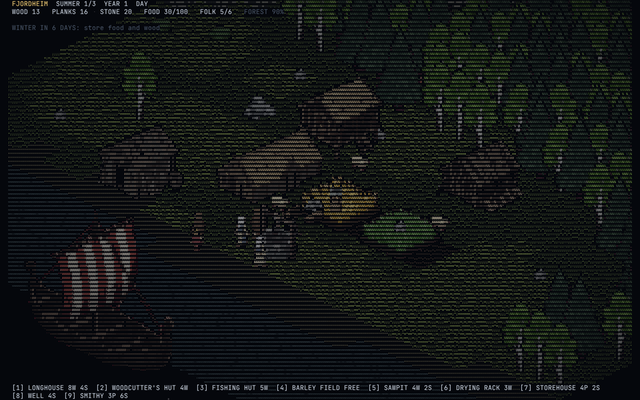
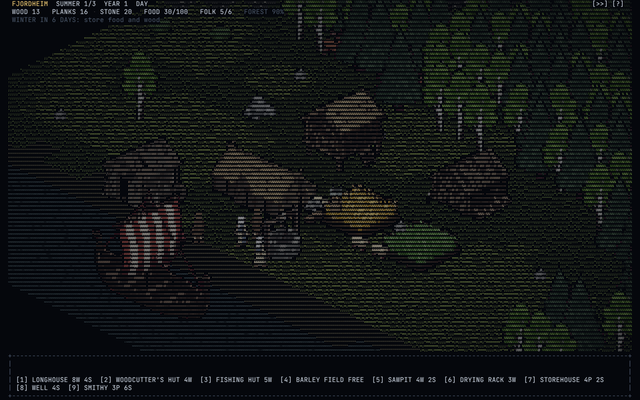
Fjordheim: buildings stand on their footprints the right way round; the knarr sails along the fjord (#20)
The owner: "Both the ship and the house orients strange." The longhouse's drawing has its long side
running down-left, against its 3 x 2 footprint, and buildings and fields were pinned by their
middle, so they floated above or beside their footprints. The knarr's hull lay along one diagonal
while it sailed almost straight up the screen.

- Buildings, building sites and fields stand with the drawing's lowest point (its base's front
  corner) on the footprint's front corner, mirrored when the long side runs the other way (onFoot).
- The knarr sails along the fjord, parallel to the shore, the way its mirrored drawing lies: in
  from the right, moored three tiles off the landing, out to the left. A little smaller.
- New thumbnail; NOTES, HISTORY 26, LESSONS and the art-prompt skill's log.

Claude-Session: https://claude.ai/code/session_01Yc4vejSbeAYSEV73mfr3yu

diff --git a/games/fjordheim/art.js b/games/fjordheim/art.js
@@ -1,10 +1,11 @@
 'use strict';
 // ===================== GAME · sprites: sizes, origins and animations =====================
 // FJ_ART (sprites.js, made by tools/art.py from the owner's sheets) holds every drawing; here each becomes an engine sprite
-// with its size in the world. Buildings are sized by their footprint: the drawing's width becomes the footprint diamond's
-// width ((a + b) tiles × TILE / 2), its bottom on the footprint's front corner. People, animals and trees are sized by
-// height and stand on their feet (the drawing's foot row). Walking characters have frames facing the viewer ("se") and
-// facing away ("ne"); the engine's flip gives the two other directions.
+// with its size in the world. Buildings and fields are sized by their footprint (the drawing's width becomes the footprint
+// diamond's width, (a + b) tiles × TILE / 2) and stand with the lowest point of the drawing, its base's front corner, on the
+// footprint's front corner; a drawing whose long side runs the other way from the footprint's is mirrored. People, animals
+// and trees are sized by height and stand on their feet (the drawing's foot row). Walking characters have frames facing the
+// viewer ("se") and facing away ("ne"); the engine's flip gives the two other directions.
 const FJ = {};
 // the drawings' colours lifted a little (a gamma of .8): a glyph inks only part of its cell, so the art's dark browns would
 // read darker on screen than on the sheet
@@ -37,17 +38,29 @@ function makeArt() {
   FJ.rock = fjSprite('rock', { height: HEIGHT.rock });
   FJ.boulders = fjSprite('boulders', { height: HEIGHT.boulders });
   FJ.bush = fjSprite('lingonberry', { height: HEIGHT.bush });
-  FJ.knarr = fjSprite('knarr', { width: 30 });
+  FJ.knarr = fjSprite('knarr', { width: 24 });
   FJ.rowboat = fjSprite('rowboat', { width: 11 });
   FJ.goods = Object.fromEntries(['logs', 'planks', 'stones', 'grain', 'fish'].map(n => [n, fjSprite(`goods_${n}`, { width: n === 'grain' || n === 'fish' ? 2.8 : 4 })]));
-  // buildings and fields: as wide as their footprint's diamond, standing on its front corner
-  FJ.build = {};
-  for (const [b, art] of Object.entries(BUILD_ART)) FJ.build[b] = fjSprite(art, { width: footWidth(BUILDINGS[b]) * 1.08, oy: FJ_ART[art].h });
-  FJ.site = {};
-  for (const b of Object.keys(BUILD_ART)) FJ.site[b] = fjSprite('building_site', { width: footWidth(BUILDINGS[b]) * .95, oy: FJ_ART.building_site.h });
-  FJ.field = [0, 1, 2, 3, 4].map(s => fjSprite(`field_${s}`, { width: footWidth(BUILDINGS.field) * 1.02, oy: FJ_ART[`field_${s}`].h }));
+  // buildings and fields: as wide as their footprint's diamond, standing on its front corner ({ spr, flip })
+  FJ.build = {}; FJ.site = {};
+  for (const [b, art] of Object.entries(BUILD_ART)) { FJ.build[b] = onFoot(art, BUILDINGS[b], 1.08); FJ.site[b] = onFoot('building_site', BUILDINGS[b], .95); }
+  FJ.field = [0, 1, 2, 3, 4].map(s => onFoot(`field_${s}`, BUILDINGS.field, 1.02));
 }
 const footWidth = b => (b.w + b.h) * TILE / 2;
+// the drawing's lowest point, the front corner of what it stands on: [column, row below it] (the middle of the lowest
+// painted pixels, from the bottom two rows so a lone pixel does not decide it)
+function frontCorner(a) {
+  let bottom = a.h; while (bottom > 0 && !/[^.]/.test(a.rows[bottom - 1])) bottom--;
+  let n = 0, sum = 0;
+  for (const r of [bottom - 1, bottom - 2]) if (r >= 0) for (let c = 0; c < a.w; c++) if (a.rows[r][c] !== '.') { n++; sum += c; }
+  return [n ? sum / n + .5 : a.w / 2, bottom];
+}
+// a footprint a tiles along i (down-right on screen) and b along j (down-left) has its front corner a / (a + b) of the way
+// across; mirror the drawing when its own front corner sits nearer b / (a + b)
+function onFoot(name, b, scale) {
+  const a = FJ_ART[name], [fx, fy] = frontCorner(a), f = fx / a.w, want = b.w / (b.w + b.h);
+  return { spr: defineSprite({ ...a, pal: a.pal.map(lift) }, { k: footWidth(b) * scale / a.w, ox: fx, oy: fy }), flip: Math.abs(1 - f - want) < Math.abs(f - want) };
+}
 
 // a walking character's frame and flip for a screen direction (dx, dy in world units) and a walk phase (0..1 per stride)
 function walkFrame(set, dx, dy, phase, moving, se = set.se, ne = set.ne) {

diff --git a/games/fjordheim/main.js b/games/fjordheim/main.js
@@ -187,10 +187,10 @@ const onScreen = (x, y, m) => x > cam.x - m && x < cam.x + R.cols + m && y > cam
 function gameDraw(t) {
   if (!HOME) return;
   const items = [], S = RES, m = 26 * S, put = (spr, u, v, o = {}) => { isoToWorld(u, v, _p); if (onScreen(_p[0], _p[1], m)) { const x = _p[0], y = _p[1]; items.push({ u: o.du ?? u, v: o.dv ?? v, draw: () => drawSprite(spr, x, y, 0, { cache: true, flip: o.flip }) }); } };
-  // fields lie flat on the ground: under everything
+  // fields lie flat on the ground, under everything, on their footprint's front corner
   for (const f of HOME.buildings) if (f.type === 'field') {
-    isoToWorld(f.i + f.w / 2, f.j + f.h, _p);
-    if (onScreen(_p[0], _p[1], m)) drawSprite(FJ.field[f.done ? f.stage : 0], _p[0], _p[1], 0, { cache: true });
+    const art = FJ.field[f.done ? f.stage : 0]; isoToWorld(f.i + f.w, f.j + f.h, _p);
+    if (onScreen(_p[0], _p[1], m)) drawSprite(art.spr, _p[0], _p[1], 0, { cache: true, flip: art.flip });
   }
   // trees, saplings, stumps, rocks, bushes
   for (const tr of trees) {
@@ -203,8 +203,8 @@ function gameDraw(t) {
   for (const b of bushes) if (thingAt(b.i, b.j) === T_BUSH) put(FJ.bush, b.i + .5, b.j + .5);
   // buildings: drawn on their footprint's front corner, sorted by its middle
   for (const b of HOME.buildings) if (b.type !== 'field') {
-    const spr = b.done ? FJ.build[b.type] : FJ.site[b.type];
-    put(spr, b.i + b.w / 2 + .5, b.j + b.h / 2 + .5, { du: b.i + b.w / 2, dv: b.j + b.h / 2 });
+    const art = b.done ? FJ.build[b.type] : FJ.site[b.type];
+    put(art.spr, b.i + b.w, b.j + b.h, { flip: art.flip, du: b.i + b.w / 2, dv: b.j + b.h / 2 });
   }
   // the store: piles of what the homestead has, beside the longhouse (or the camp on the beach)
   const s = store(), front = [s[0] + s[2] + .35, s[1] + s[3] - .2];
@@ -221,7 +221,7 @@ function gameDraw(t) {
   if (foot) {
     const [i, j] = foot, b = BUILDINGS[SEL];
     ghost = { i, j, b, why: placeProblem(SEL, i, j) };
-    if (SEL !== 'field') put(FJ.build[SEL], i + b.w / 2 + .5, j + b.h / 2 + .5, { du: N * 3, dv: N * 3 });
+    if (SEL !== 'field') put(FJ.build[SEL].spr, i + b.w, j + b.h, { flip: FJ.build[SEL].flip, du: N * 3, dv: N * 3 });
   }
   isoDraw(items);
   if (ghost) isoOutline(ghost.i, ghost.j, ghost.b.w, ghost.b.h, ghost.why ? [1.6, .35, .25] : [.5, 1.6, .6]);

diff --git a/games/fjordheim/homestead.js b/games/fjordheim/homestead.js
@@ -135,21 +135,28 @@ function stepFields(dt) {
 }
 
 // ---------- newcomers arrive by knarr ----------
+// The knarr sails along the fjord, parallel to the shore (the way its drawing lies, mirrored: bow to the upper left): in
+// from the right, moored off the landing while the newcomer wades ashore, then on up the fjord and away to the left.
+// Its lane keeps three tiles off the shore, which wanders: the drawing rises far up the screen, and nearer in it would
+// stand on the beach.
+function shipLane(u) {
+  const i = clamp(Math.floor(u), 0, N - 1);
+  let j = 0; while (j < N && groundAt(i, j) !== G_WATER) j++;
+  return j + 3;
+}
 function sendShip() {
-  const land = LANDING;
-  HOME.ship = { u: land[0] + 6, v: N + 6, tu: land[0] + .5, tv: land[1] + 1.6, phase: 'in', t: 0 };
+  HOME.ship = { u: N + 6, v: shipLane(N - 1), phase: 'in', t: 0 };
   say('A KNARR IS COMING IN'); Sfx.tone(330, .5, .08, 'triangle'); Sfx.tone(440, .6, .07, 'triangle', .3);
 }
 function stepShip(dt) {
   const s = HOME.ship; if (!s) return;
-  const sp = 2.2 * dt;
-  if (s.phase === 'in' || s.phase === 'out') {
-    const tu = s.phase === 'in' ? s.tu : s.tu + 8, tv = s.phase === 'in' ? s.tv : N + 8;
-    const d = Math.hypot(tu - s.u, tv - s.v);
-    if (d < sp) { s.u = tu; s.v = tv; if (s.phase === 'in') { s.phase = 'moored'; s.t = 0; } else HOME.ship = null; }
-    else { s.u += (tu - s.u) / d * sp; s.v += (tv - s.v) / d * sp; }
-  } else if (s.phase === 'moored' && (s.t += dt) > 1.5) {
-    if (!s.landed) { s.landed = true; s.cargo = arrive(); }
+  if (s.phase === 'moored') {
+    if ((s.t += dt) > 1.5 && !s.landed) { s.landed = true; s.cargo = arrive(); }
     if (s.t > 4) s.phase = 'out';
+    return;
   }
+  const stop = s.phase === 'in' ? LANDING[0] + .5 : -8;
+  s.u = Math.max(stop, s.u - 2.2 * dt);
+  s.v += (shipLane(s.u) - s.v) * Math.min(1, dt * 1.5);   // eases along the lane as the shore bends
+  if (s.u === stop) { if (s.phase === 'in') { s.phase = 'moored'; s.t = 0; } else HOME.ship = null; }
 }

diff --git a/docs/HISTORY.md b/docs/HISTORY.md
@@ -584,6 +584,20 @@ building would go, and help, speed and pause were keys only.
 - **Tests**: `games/fjordheim/tests/phone.py` plays on an emulated Pixel 7 with real touch events (tap, drag, tap-tap,
   the buttons). `ui.py` now waits on game steps, not seconds: the headless 2D canvas can take half a second a frame.
 
+## 26. Buildings and the knarr turned the right way (Claude Code, 2026-10-17)
+
+The owner: "We need to fix some orentations... Both the ship and the house orients strange." The screenshot showed two
+problems. The longhouse lay crosswise to its outline, because the drawing's long side runs down-left while its 3 × 2
+footprint runs down-right. The knarr's hull lay along one diagonal while the ship sailed almost straight up the screen.
+Buildings and fields were also pinned by their middle, so they floated above or beside their footprints.
+
+- Every building, building site and field now stands with its drawing's lowest point (the front corner of its base) on
+  its footprint's front corner, and is mirrored when its long side runs the other way from the footprint's
+  (`onFoot` in `games/fjordheim/art.js`). The longhouse and the well are mirrored; the rest stand as drawn.
+- The knarr sails along the fjord, parallel to the shore, the way its (mirrored) drawing lies. It comes in from the
+  right, moors three tiles off the landing, and sails on up the fjord to the left. It is a little smaller (3 tiles long).
+- No new art was needed. The thumbnail is redrawn.
+
 ## Published versions (claude.ai artifact "Regolith Lander")
 
 | Version | Content |

diff --git a/games/fjordheim/NOTES.md b/games/fjordheim/NOTES.md
@@ -73,6 +73,14 @@ or not), writes `sprites.js` (the 70 used ones; characters share a palette per g
   `#` / `@`); people and animals keep `#`, `%`, `&`, `@`.
 - `art.js` lifts every palette by a gamma of .8 and sizes sprites: people and trees by height (`HEIGHT`), buildings by
   their footprint's width.
+- **Orientation** (`onFoot` in `art.js`): a building or field stands with its drawing's lowest point (`frontCorner`, its
+  base's front corner) on the footprint's front corner (i + w, j + h). A footprint w along i (down-right on screen) and h
+  along j (down-left) has that corner w / (w + h) of the way across, so a drawing whose own corner sits nearer
+  h / (w + h) is mirrored: the longhouse (3 × 2) is drawn with its long side running down-left, and so is mirrored. The
+  well is mirrored too; the rest stand as drawn.
+- **The knarr** lies along the fjord (its drawing mirrored, bow to the upper left), so it sails parallel to the shore:
+  in from the right, moored off the landing, out to the left (`shipLane`: three tiles off the wandering shore; nearer,
+  its tall drawing stands on the beach). The rowboats row straight out, mirrored the same way.
 
 ## Decisions and known issues
 - The world is static (no physics): the ground is the back wall, so lamps light it and nothing falls.

diff --git a/docs/LESSONS.md b/docs/LESSONS.md
@@ -208,3 +208,10 @@ way.
   row around them. Leave the last row free: Android's gesture bar sits over it.
 - **The headless 2D canvas is slow and noisy** (50 to 900 ms a frame here). Time the JavaScript, not the frame, and let
   tests wait on game steps.
+- **Stand an isometric drawing on its lowest point.** A building drawn in isometric touches the ground at the front
+  corner of its base, which is rarely the middle of the drawing: pin that point to the footprint's front corner. Its
+  position across the drawing also tells which way the long side runs (w / (w + h) of the way across for a footprint
+  w along i): mirror the drawing when it runs the other way. Then check every building with its footprint outlined.
+- **Move things the way their drawing faces.** A sprite has one or two facings (drawn and mirrored), so give it a path
+  along them: the knarr sails along the shore, not straight at it. A tall sprite near the shore reads as standing on
+  the land behind it; keep it well out.

diff --git a/.claude/skills/glyphite-art-prompt/SKILL.md b/.claude/skills/glyphite-art-prompt/SKILL.md
@@ -210,3 +210,7 @@ keep the skill short.
     Look at a contact sheet of every cut before converting.
   - **JPEG:** Gemini sends JPEG whatever the prompt says, and the raspberry bled into every dark outline and edge pixel,
     giving each palette magenta-tinted colours. `art.py`'s `unpink` turns the dark ones into outline and drops the rest.
+- 2026-10-17, Fjordheim in play: the longhouse was drawn with its long side running down-left, against its footprint, and
+  the knarr along the other diagonal from the way it sailed. Mirroring fixed both in the game (`onFoot` in
+  `games/fjordheim/art.js`), but a prompt can say it: give each long building and each vessel the diagonal its long side
+  runs along (down-right or down-left), to match its footprint and its course.
